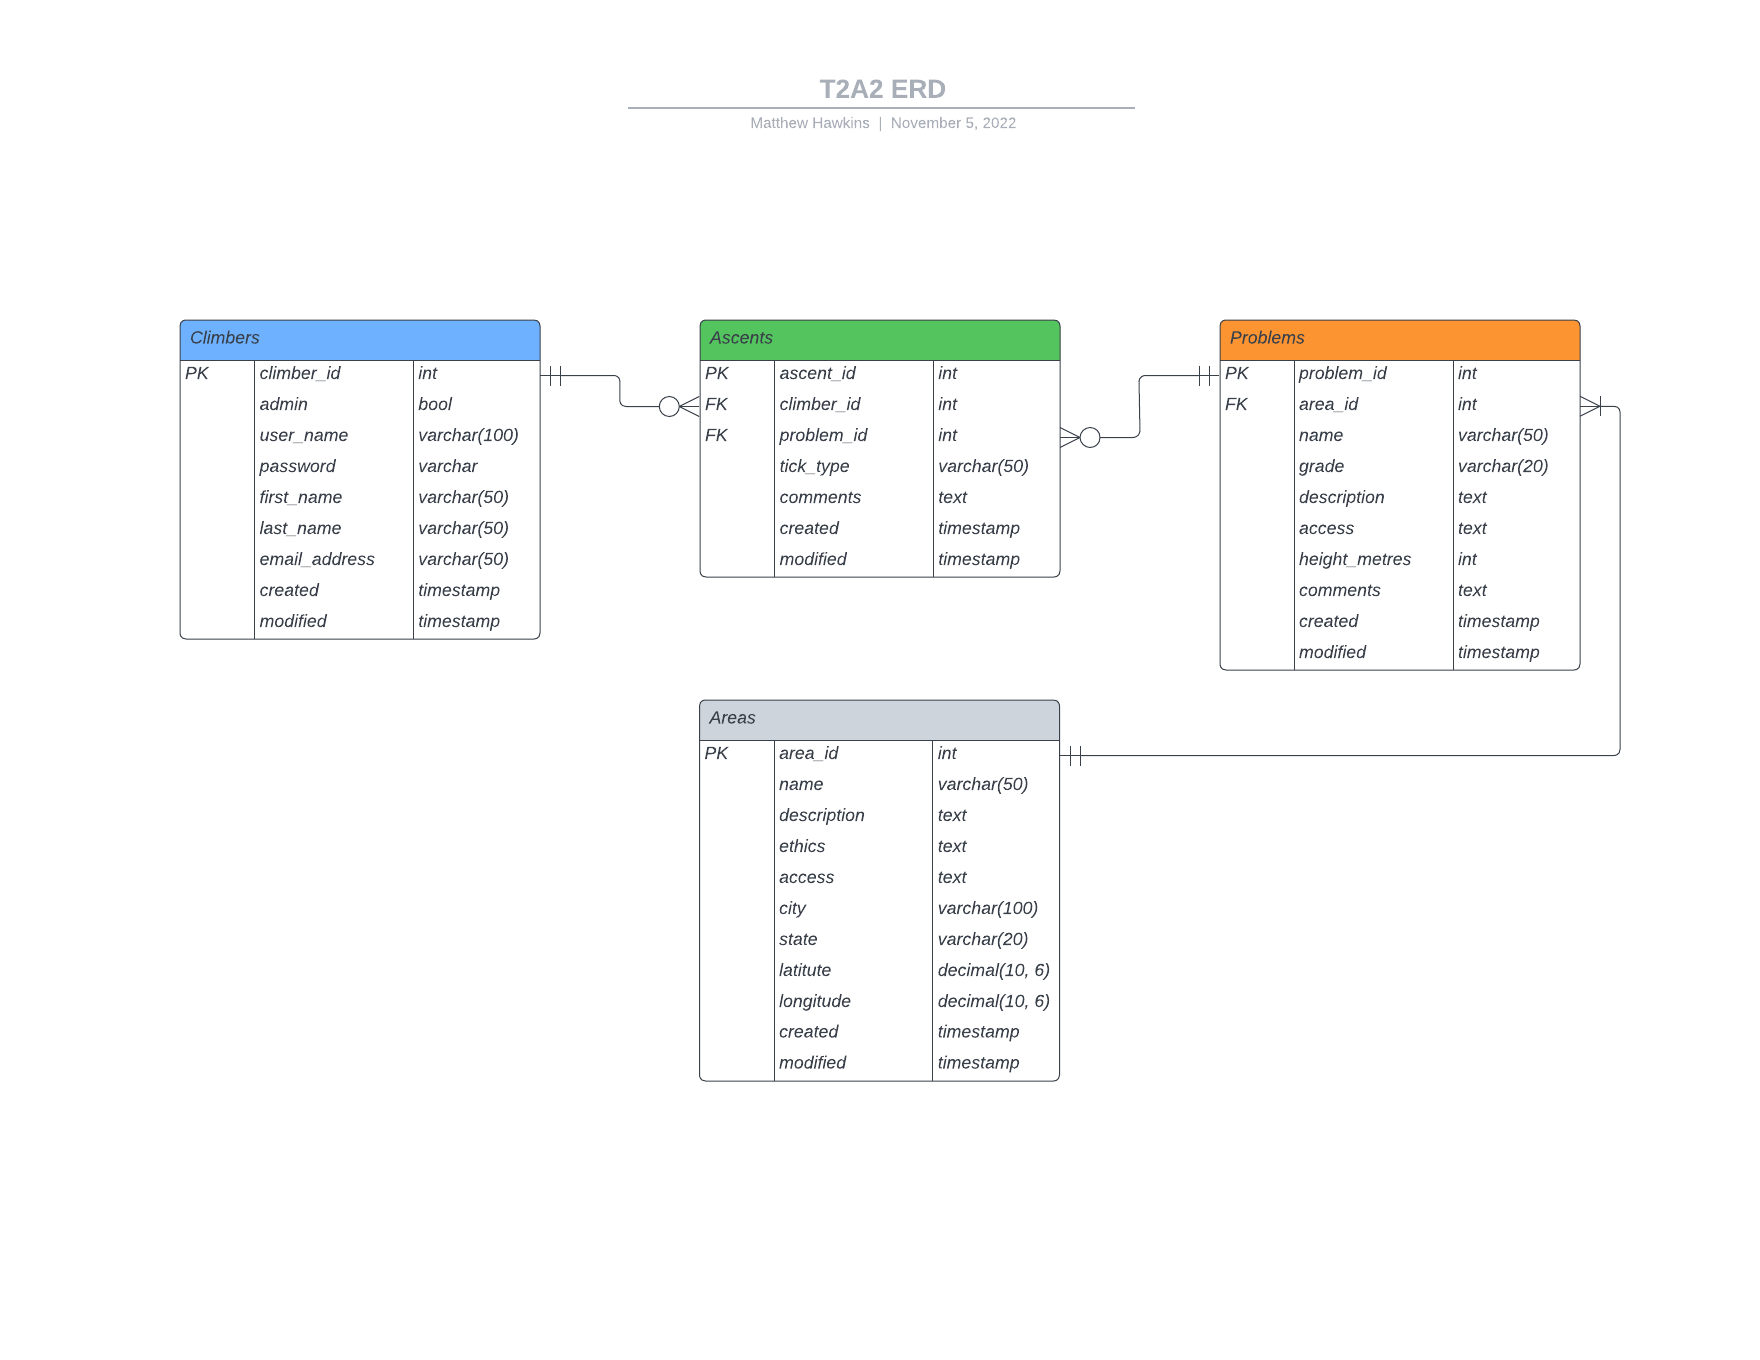
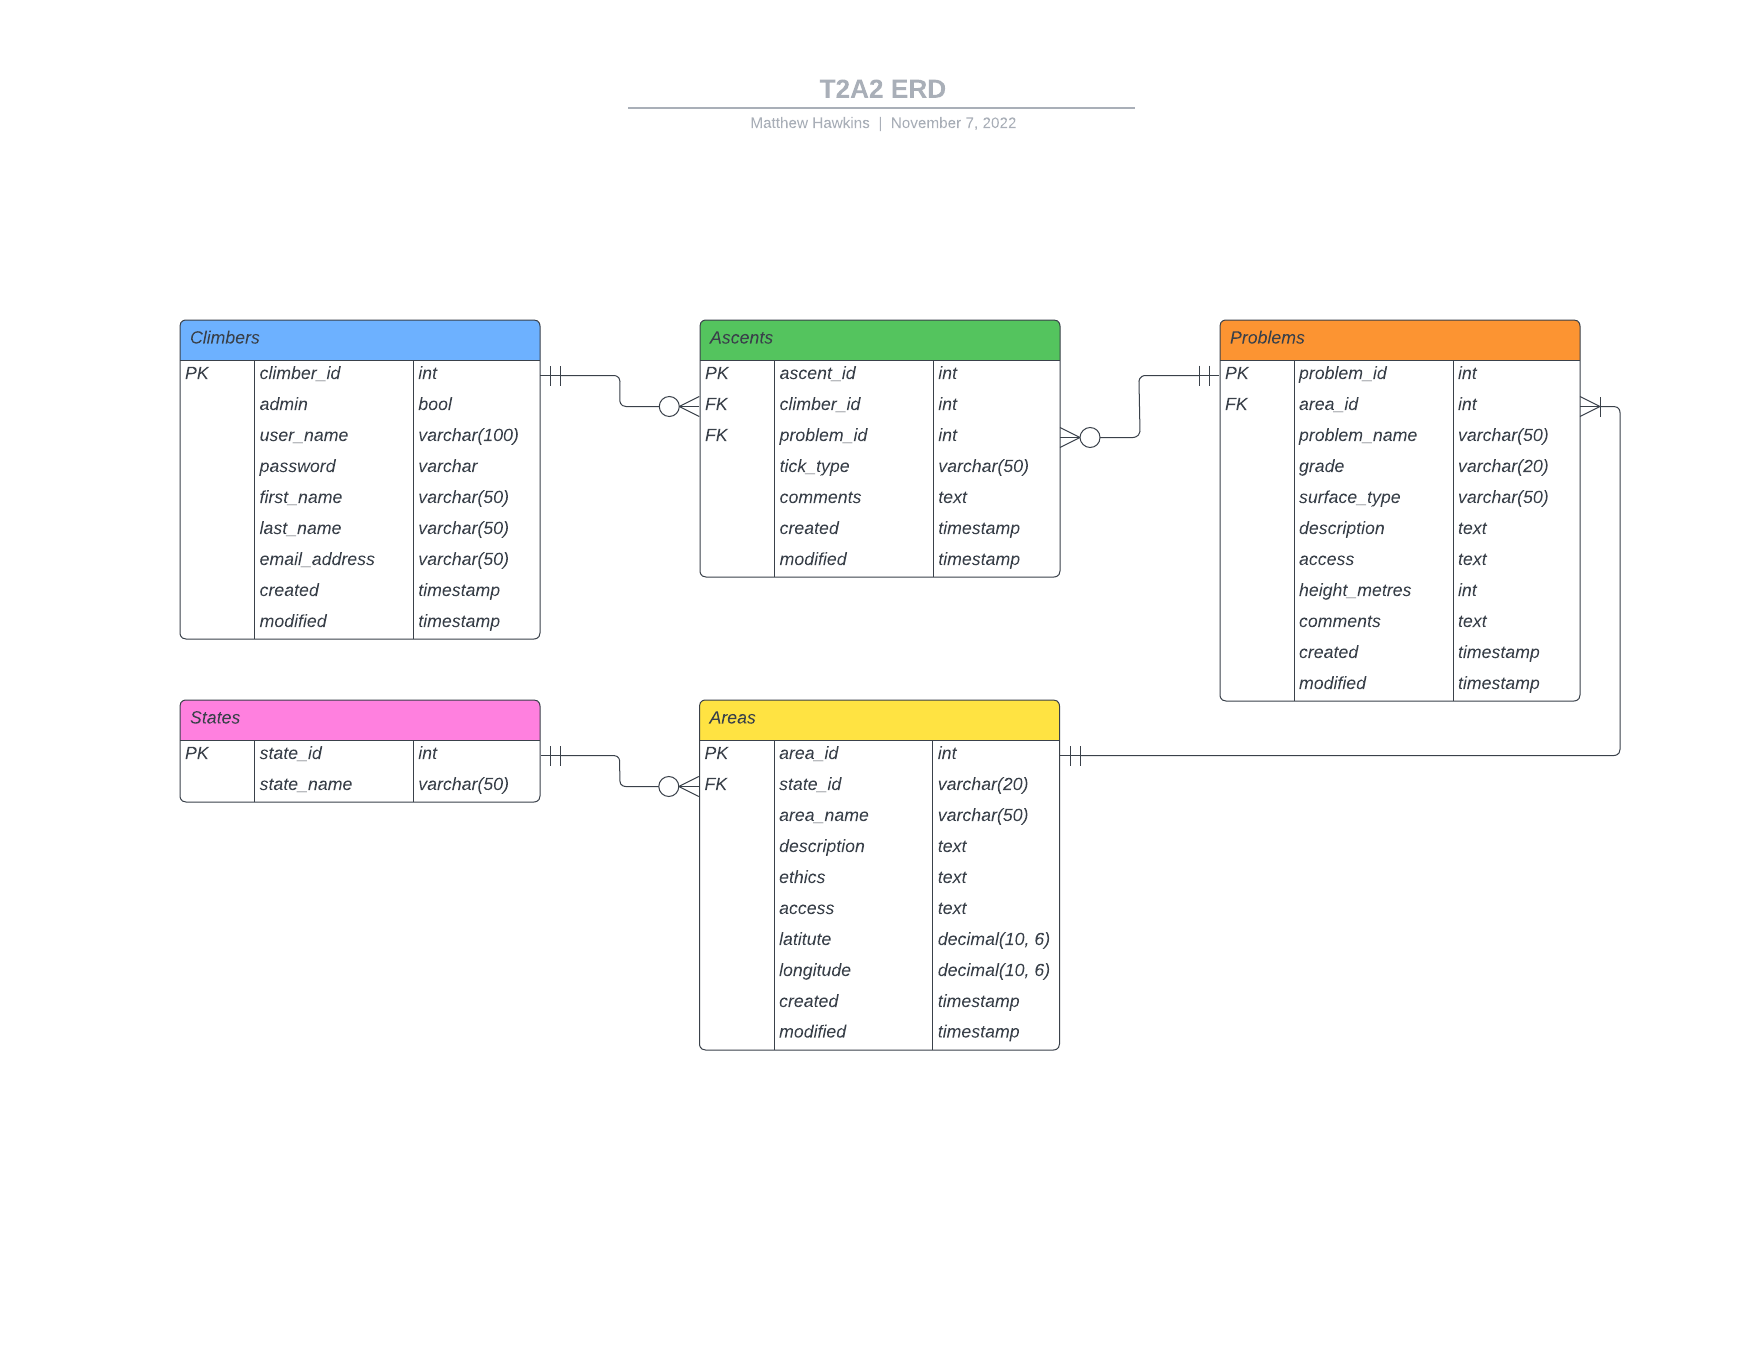
adjusted ERD in Docs, completed Q9 for Databases in readme

diff --git a/README.md b/README.md
@@ -2,17 +2,17 @@
 
 ## About
 
-Many Rock Climbers are eager to record what they have achieved in their climbing career or hobby by logging ascents of particular problems and historic routes.
+Many Australian rock climbers and specifically boulderers are eager to record what they have achieved in their climbing career or hobby by logging ascents of particular problems and historic routes.
 
 This is done to not only measure their success over time, but also demonstrate their skillset. It also acts as a way to communicate certain nuances of a particular climb and its perceived grading or difficulty to other members of the climbing community.
 
 Many climbing routes are located in undiscovered areas and are completely unknown until someone decides to observe whether there is an achieveable route to the top of the rockface or boulder, in which a climber may either ascend it themselves or document it as a route to be climbed. Historically the first ascensionist gets to name the route.
 
-The problem is, there isn't many ways for climbers to log their ascents of routes, discuss and find exact locations of the routes and the rock type, grade the level of difficulty, talk about particular nuances to achieve the climb and provide information on area ethics, hazards and changes to the area.
+The issue is, there isn't many ways for boulderers in Australia to log their ascents of problems, a term which is synonymous with route or climb, discuss and find exact locations of the routes and the rock type, grade the level of difficulty, talk about particular nuances to achieve the climb and provide information on area ethics, hazards and changes to the area.
 
 ## Aim
 
-The aim of this application is solve the aforementioned issues by providing a means for climbers to log their ascents, including grading the difficulty, methods of achieving it through descriptions, send type, and discussing changes that may be present.
+The aim of this application is solve the aforementioned issues by providing a means for boulderers to log their ascents, including grading the difficulty, methods of achieving it through descriptions, send type, and discussing changes that may be present.
 
 This solution is implemented through the use of an API Web Application that utilises a database to store information of known routes that have been documented, store users information and their ascents, as well as giving users the ability to access known routes and add their own found routes to the database.
 
@@ -73,17 +73,91 @@ ORM's add another layer of protection against SQL injection by reducing explicit
 
 ## ERD
 
-### **About**
-
-Models and Assosciations explain
-
-![Entity Relationship Diagram]()
+![Entity Relationship Diagram](/docs/T2A2%20ERD%20-%20Database%20ER%20diagram%20(crow's%20foot).png)
 
 ## Third Party Services
 
 ## Models & Relationships
 
 ## Database Relations
+
+To ensure an accurate representation of the database to be implemented programmatically, an Entity relationship diagram was produced representing relationships between entities. The following information was considered when constructing the relationship diagram.
+
+### **Entities**
+
+**Climbers**
+
+In order for application users to be able to log their ascents of particular climbs, they would need to be able to store these ascents in relationship to their personal account. Therefore a user table was required named "Climbers", which holds pertinent information relating to an individual account. An individual climber account has a relationship with the entity "Ascents" a climber can have zero or many "Ascents", depending on how many ascents they have logged.
+
+Attributes of a climber include:
+
+1. *climber_id*, the primary key for a climber
+2. *admin*, which determines what rights a climber have granted within the db and if they are an administrator or not
+3. *user_name*, holds a given climbers username
+4. *password*, holds a climbers password to ensure accurate authentication
+5. *first_name*, the first name of the climber
+6. *last_name*, the last name of the climber
+7. *email_address*, the climbers email address for contact
+8. *created*, timestamp of when the account was created
+9. *modified*, timestamp of when the account was last modified
+
+**Ascents**
+
+The Ascents entity represents the table containing information relating to a climbers experience of a particular problem and is required for a user to log their ascents. This entity relates to the Climbers entity and the Problems entity, and represents a join table between the two. An ascent can have one and only one climber, as in order for it to exist an individual climber must log it to be so, and an Ascent can have one and only one problem, as an individual ascent relates to an individual problem.
+
+Attributes of an ascent entity include:  
+
+1. *ascent_id*, the primary key which identifies a particular ascent by id  
+2. *climber_id*, the foreign key which maps to the primary key in the climbers entity in order to determine the climber who logged this ascent
+3. *problem_id*, the foreign key which maps an ascent to a particular problem
+4. *tick_type*, represents how an ascent was climbed, i.e was it climbed first go ?, second go or did they receive help or are they currently projecting the problem
+5. *comments*, allows a climber to describe particular points of note about a climb, their perception of the grade of difficulty and potential hazards or changes
+6. *created*, timestamp of when the ascent was created
+7. *modified*, timestamp of when the ascent was last modified
+
+**Problems**
+
+The Problems entity contains all the attributes relating to a particular "problem" or sometimes route and is required to hold all the information about the problems that climbers ascend. Problems are related to the Ascents entity for climbers to log their ascents, and the Areas entity which contains a group of problems. A problem can have zero of multiple ascents, that is zero or many people could climb this problem, and a problem belongs to one and only one bouldering Area.
+
+Attributes of a problem include:
+
+1. *problem_id*, a primary key that identifies a specific problem
+2. *area_id*, a foreign key , that relates a problem to a particular area in the areas entity using its area_id.
+3. *problem_name* holds the name of the particular problem
+4. *grade* represents the difficulty of the climb in the typical bouldering V scale
+5. *surface_type*, represents a particular type of rock or surface being climbed such as granite, limestone, sandstone etc
+6. *description*, provides information to climbers about the history and technical aspects of the climb
+7. *access*, displays how a climber can find a particular problem, is there a path, is it overgrown, how far is it from an areas entry location
+8. *height_metres*, the height of a particular problem in metres, rounded up if between two integers for safety
+9. *comments*, information on methods, hazards and changes that may have occured to a particular problem
+10. *created*, timestamp of when the problem was created
+11. *modified*, timestamp of when the problem was last modified
+
+**Areas**
+
+The Areas entity represents a collection of problems located in a particular area of the country, and is required to store information that is pertinent to a group of problems that may change over time. The areas entity is related to the problems entity and the states entity. An area can have one or many problems within in, as if there was zero it would not be listed, and an area belongs to one and only one state as its location does not change.
+
+Attributes of an area include:
+
+1. *area_id*, which is the primary key that identifies a particular area of boulders
+2. *state_id*, a foreign key that relates to the states entity through its primary key state_id, as areas are located within states
+3. *area_name*, an attribute that holds the name of a particular bouldering area
+4. *description*, generally information of a particular area, including its history and topography
+5. *ethics*, ethics that pertain to a particular climbing area such as expectations for noise, littering, no go areas and spiritual locations
+6. *access*, this attribute provides information to find and park in a specific climbing area, or a general mustering point
+7. *latitute*, provides up to a six decimal latitudinal geographic reference, suffixed by South for Australia
+8. *longitude*, provides up to a six decimal longitudinal geographic reference, suffixed by East for Australia
+9. *created*, timestamp of when the area was created
+10. *modified*, timestamp of when the area was last modified
+
+**States**
+
+The State entity lists all the states and territories of Australia, separating states allows areas to reference a states id, in the unlikely chance a state or territory changes name or is modified. A state can have zero or many bouldering areas within it.
+
+Attributes of a state include:
+
+1. *state_id*, the primary key that identifies a particular state or territory in Australian
+2. *state_name*, the name assosciated with a particular state_id
 
 ## Project Management
 
@@ -93,7 +167,7 @@ During the project planning stage it was determined that production would be bro
 
 **Idea**
 
-The Aim of this project is to provide better access for Rock Climbers, and in particular those who participate in the style of Bouldering to be able to have access to a tracking system, that logs their climbing and achievements as well as giving them the ability to access a database of information relating to the routes or problems, by seeking information on locations, difficulty and other pertinent information relevant to a particular route, and giving them the ability to add additional routes to the database for the benefit of all.
+The Aim of this project is to provide better access for Australian Rock Climbers, and in particular those who participate in the style of Bouldering to be able to have access to a tracking system, that logs their climbing and achievements as well as giving them the ability to access a database of information relating to the routes or problems, by seeking information on locations, difficulty and other pertinent information relevant to a particular route, and giving them the ability to add additional routes to the database for the benefit of all.
 
 The database is aimed to be mananged by members of the climbing community who have administration rights to ensure quality data integrity and resolve and issues that may arise.
 
@@ -103,7 +177,7 @@ Prior to design, a list of requirements have been determined that will achieve t
 
 1. A Project management software is to be implemented to ensure good management of tasks and required outcomes. In order to achieve good time management an Agile methodology is to be utilised.
 
-2. Creation of an ERD to indentify database requirements and expected relationships between entities: Users, Ascents, Routes/Problems and Locations.
+2. Creation of an ERD to indentify database requirements and expected relationships between entities: Users, Ascents, Routes/Problems and Areas.
 
 3. A Database management system is required to manage all the expected data for the users. The total user base at this stage is not expected to rise above a single server requirement. The users will interact in a relational manner with other entities of the database, therefore a Relational DBMS should be utilised.
 
@@ -175,7 +249,7 @@ Maintenance will be conducted at regular intervals by administrators utilising t
 
 Add photos of trello board here
 
-![Early Stage Trello Board]()
+![Early Stage Trello Board](/docs/Early%20Stage%20Trello%20Board.png)
 
 ## Resources
 
@@ -198,6 +272,3 @@ Matthew Hawkins
 [Transactions and Connection Management — SQLAlchemy 1.4 Documentation. (n.d.). Retrieved November 4, 2022, from](https://docs.sqlalchemy.org/en/14/orm/session_transaction.html)
 
 [What is SQL Injection | SQLI Attack Example & Prevention Methods | Imperva. (2021, March 11). Learning Center.](https://www.imperva.com/learn/application-security/sql-injection-sqli/)
-
-
-[def]: /
